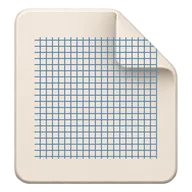
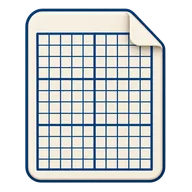
Refresh classroom artwork and add audit handoff

diff --git a/src/renderer/src/ui/icons.tsx b/src/renderer/src/ui/icons.tsx
@@ -4,7 +4,7 @@ import { useState } from 'preact/hooks'
 export * from 'lucide-preact'
 
 const files = import.meta.glob('../assets/art/*.webp', { eager: true, query: '?url', import: 'default' }) as Record<string, string>
-export const artNames = ["assistant","audio","axes","background","calculator","canvas-board","capture","chalk","clock","compass","copy","dice","empty-lessons","empty-shelf","equation","eraser","exit","export","felt-marker","file-pdf","frame","geometry-box","graph","hand","hide-toolbar","hide","highlighter","keyboard","laptop","laser","lasso","link","lock","magnifier","menu","mind-map","minimise","more","my-lessons","my-shelf","name-picker","new-lesson","new-page","notebook-board","number-line","open-folder","page-back","page-next","paintbrush","paper-fourline","paper-graph","paper-hindi","paper-ruled","paper-squared","pdf-worksheet","pen","pencil","periodic-table","picture","pin","poll","protractor","record","recovery","redo","rename","reveal","ruler","save-copy","save","science-labs","scoreboard","screen-cover","search","select","set-square","settings","shapes","share-phones","show","slides","smart-board","split-board","spotlight","stamp","sticky","stopwatch","subject-biology","subject-chemistry","subject-english","subject-hindi","subject-maths","subject-physics","subjects","table","tag","text","timeline","timer","trash","undo","unlock","use-apps-below","video","welcome-board","welcome-laptop","write-over-screen"] as const
+export const artNames = ["assistant","audio","axes","background","calculator","canvas-board","capture","chalk","clock","compass","copy","dice","empty-lessons","empty-shelf","equation","eraser","exit","export","felt-marker","file-pdf","frame","geometry-box","graph","hand","hide-toolbar","hide","highlighter","keyboard","laptop","laser","lasso","link","lock","magnifier","menu","mind-map","minimise","more","my-lessons","my-shelf","name-picker","new-lesson","new-page","notebook-board","number-line","open-folder","page-back","page-next","paintbrush","paper-fourline","paper-graph","paper-hindi","paper-ruled","paper-squared","pdf-worksheet","pen","pencil","periodic-table","picture","pin","poll","protractor","record","recovery","redo","rename","reveal","ruler","save-copy","save","science-labs","scoreboard","screen-cover","search","select","set-square","settings","shapes","share-phones","show","slides","smart-board","split-board","spotlight","stamp","sticky","stopwatch","subject-biology","subject-chemistry","subject-english","subject-hindi","subject-maths","subject-physics","subjects","table","tag","text","timeline","timer","trash","undo","unlock","use-apps-below","video","welcome-board","welcome-laptop","write-over-screen","templates","apparatus"] as const
 export const artUrl = (name: string): string | undefined => files['../assets/art/' + name + '.webp']
 
 // Decoded ahead of time so pictures do not pop in, without ever making the app wait for them to start.
@@ -134,3 +134,5 @@ export const ArtTimeline = art('timeline')
 export const ArtVideo = art('video')
 export const ArtWelcomeBoard = art('welcome-board')
 export const ArtWelcomeLaptop = art('welcome-laptop')
+export const ArtTemplates = art('templates')
+export const ArtApparatus = art('apparatus')

diff --git a/src/renderer/src/assets/art/SOURCES.md b/src/renderer/src/assets/art/SOURCES.md
@@ -2,6 +2,8 @@
 
 Owner supplied ten ChatGPT-generated transparent sheets on 1 November 2026 and explicitly authorised cropping, corrections and use in this GPL-3.0 app. No Note 3 assets were used. Original sheets and 1024px padded masters are outside the repository. Original prompts for supplied sheets are unknown, so subject briefs below are not claimed as their actual prompts. T and Σ were checked visually. New-feature art is intentionally reserved for the lead.
 
+Second round (2 November 2026): eight replacement pictures and the new Templates and Apparatus pictures were generated individually with the built-in OpenAI image tool. Original PNG masters and per-picture prompt metadata are retained in ../art-masters. Export processing removes detached alpha speckles while retaining the main object and its transparency. The two new UI exports are reserved for the lead.
+
 ### select.webp
 - Tool: ChatGPT image generation, supplied by owner
 - Date: 2026-11-01
@@ -255,11 +257,11 @@ Owner supplied ten ChatGPT-generated transparent sheets on 1 November 2026 and e
 - Edited: Cropped from supplied sheet; low-alpha background speckles removed; transparent padding added. Exact original generation prompt was not supplied.
 
 ### table.webp
-- Tool: ChatGPT image generation, supplied by owner
-- Date: 2026-11-01
-- Source: sheet-4.png; crop 565, 575, 255, 410; SHA-256 35b9279896f769676ef6090ccb43ca3afd69c6469886bc86f8c906e56d8bf281
-- Prompt: Original generation prompt not supplied by owner. Subject brief: table. Shared direction: familiar front-facing classroom objects, bold silhouette, minimal detail, warm matte colours, transparent background.
-- Edited: Cropped from supplied sheet; low-alpha background speckles removed; transparent padding added. Exact original generation prompt was not supplied.
+- Tool: OpenAI built-in image_gen
+- Date: 2026-11-02
+- Source: table-replacement.png; SHA-256 0814e4d90b5da77eb9ee8a8fd2eb90467719bd2a11cfab9c0aa04407d7a57e18
+- Prompt: Use case: stylized-concept. ONE replacement small classroom TABLE toolbar icon. First reference is the old table icon to replace; second is the new worksheet illustrating the shared warm ivory paper, restrained material depth and clear thick slate-blue marks. Make one upright front-facing warm cream table card with softly rounded corners and a small folded upper-right corner. A prominent muted deep-blue header band over EXACTLY THREE columns and FOUR empty rows below it. Straight, confident, thick slate-blue table rules, clean right-angle intersections, substantial dark outline. The blank cells must be generous and the header visually solid, so this reads immediately at 36–60 px. No text, numbers, PDF badge, worksheet answer boxes, extra objects or tiny detail. Modern, natural and restrained matte classroom-object illustration, soft upper-left form shading, no glossy toy plastic, no aged paper. Single centred object with transparent margin, true transparent alpha background, no shadow or backdrop.
+- Edited: Generated individually; original PNG master retained. Removed 175 detached alpha pixels outside the connected icon. Alpha-trimmed and resized through make-art.cjs with transparent padding. Replaces the supplied picture after visual review.
 
 ### equation.webp
 - Tool: ChatGPT image generation, supplied by owner
@@ -283,11 +285,11 @@ Owner supplied ten ChatGPT-generated transparent sheets on 1 November 2026 and e
 - Edited: Cropped from supplied sheet; low-alpha background speckles removed; transparent padding added. Exact original generation prompt was not supplied.
 
 ### axes.webp
-- Tool: ChatGPT image generation, supplied by owner
-- Date: 2026-11-01
-- Source: sheet-5.png; crop 325, 185, 220, 360; SHA-256 ed8db89249cc47c460381e0b73c34fcc59b1794ae3a9c8c5def7ea2e4ef6f2f9
-- Prompt: Original generation prompt not supplied by owner. Subject brief: axes. Shared direction: familiar front-facing classroom objects, bold silhouette, minimal detail, warm matte colours, transparent background.
-- Edited: Cropped from supplied sheet; low-alpha background speckles removed; transparent padding added. Exact original generation prompt was not supplied.
+- Tool: OpenAI built-in image_gen (generation and material-colour revision)
+- Date: 2026-11-02
+- Source: axes-replacement.png; SHA-256 3714f33bad0d6cb8b37ab81f121e053bb1529f219f4de560ba4c1e8df2f7ecc8
+- Prompt: Use case: stylized-concept. Create ONE replacement classroom toolbar icon for coordinate axes, in the warm, restrained, matte classroom-object style of the second reference (the green glass flask). First reference is the old axes icon being replaced: keep the familiar upright horizontal/vertical coordinate cross with four arrow tips, but make the strokes substantially bolder and clearer at 36–60 px. Dark graphite metal/ink, subtly rounded bevelled edges, a few short generous tick marks; tiny muted teal accents only if useful. Symmetric front-facing 2D coordinate cross, flat to viewer, no perspective, no third axis. The whole symbol should form a confident substantial silhouette, with soft upper-left material shading, restrained depth and no glossy plastic. No sheet or frame behind it. No text, letters, numbers, curve, extra props, glow or cast shadow. Single centred object with generous empty transparent margin. True transparent alpha background; no white rectangle, no checkerboard drawn into the image. Material-colour revision prompt: Edit this axes toolbar icon ONLY to improve its material colour and contrast. Keep the exact four-arrow coordinate-cross silhouette, upright orientation, overall thickness, four small teal tick accents and transparent framing. Replace the very dark graphite body with MATTE MID-TONE PEWTER STEEL, approximately #87979b, with a slightly darker clean outer contour and soft light silver upper-left highlights. The filled shafts and arrowheads must be clearly visible on a dark charcoal #272d33 panel as well as warm white, at 38 px. Keep restrained natural material depth, no glossy plastic, no glow, no halo, no cast shadow. Do not add a page, outline frame, text, numbers, letters, axes or extra props. True transparent alpha background; preserve transparency. Make a single substantial simple small icon, not a large busy illustration.
+- Edited: Generated individually; original PNG master retained. Removed 3646 detached alpha pixels outside the connected icon. Alpha-trimmed and resized through make-art.cjs with transparent padding. Replaces the supplied picture after visual review.
 
 ### periodic-table.webp
 - Tool: ChatGPT image generation, supplied by owner
@@ -696,46 +698,46 @@ Owner supplied ten ChatGPT-generated transparent sheets on 1 November 2026 and e
 - Edited: Cropped from supplied sheet; low-alpha background speckles removed; transparent padding added. Exact original generation prompt was not supplied.
 
 ### paper-squared.webp
-- Tool: ChatGPT image generation, supplied by owner
-- Date: 2026-11-01
-- Source: sheet-10.png; crop 1000, 400, 310, 320; SHA-256 8c4b8a5bcba05028041918d60a54351ba7dc5814df3765cfa7323f59e4f92bf7
-- Prompt: Original generation prompt not supplied by owner. Subject brief: paper-squared. Shared direction: familiar front-facing classroom objects, bold silhouette, minimal detail, warm matte colours, transparent background.
-- Edited: Cropped from supplied sheet; low-alpha background speckles removed; transparent padding added. Exact original generation prompt was not supplied. Exact preview guides composited in code.
+- Tool: OpenAI built-in image_gen
+- Date: 2026-11-02
+- Source: paper-squared-replacement.png; SHA-256 191b88fc9921bbc3e16865edf2bae0bd2cb010c8be398fe46e2170d3311e33f9
+- Prompt: Use case: stylized-concept. ONE replacement small toolbar icon for SQUARED PAPER. First reference is the old pale squared sheet; second is the approved new table card for the shared warm cream paper, substantial edges and soft restrained material shading. Create a single upright front-facing ivory sheet with rounded corners and a small folded top-right corner. Its main face shows a COARSE regular square grid, approximately five columns by six rows, with confident dark slate-blue strokes and right-angle intersections. Squares must look square, not a table: every line has equal weight, no header band, no filled cells. Fill most of the usable sheet with the grid while leaving a modest clean paper margin. Strokes must remain strong and clear at 36–60 px; no faint thin lines or dense fine mesh. Minimal natural matte classroom illustration, subtle upper-left form shading, no old parchment, no gloss. No text, numbers, letters, badges, pencil or extra objects. Single centred object, generous transparent margin, genuinely transparent alpha background, no shadow or backdrop.
+- Edited: Generated individually; original PNG master retained. Removed 38 detached alpha pixels outside the connected icon. Alpha-trimmed and resized through make-art.cjs with transparent padding. Replaces the supplied picture after visual review.
 
 ### paper-graph.webp
-- Tool: ChatGPT image generation, supplied by owner
-- Date: 2026-11-01
-- Source: sheet-10.png; crop 1000, 400, 310, 320; SHA-256 8c4b8a5bcba05028041918d60a54351ba7dc5814df3765cfa7323f59e4f92bf7
-- Prompt: Original generation prompt not supplied by owner. Subject brief: paper-graph. Shared direction: familiar front-facing classroom objects, bold silhouette, minimal detail, warm matte colours, transparent background.
-- Edited: Cropped from supplied sheet; low-alpha background speckles removed; transparent padding added. Exact original generation prompt was not supplied. Exact preview guides composited in code.
+- Tool: OpenAI built-in image_gen
+- Date: 2026-11-02
+- Source: paper-graph-replacement.png; SHA-256 067e29bd2ca994fad7312e388224fa8d77f2424692d79ded8066b7f8056cb198
+- Prompt: Use case: stylized-concept. ONE replacement GRAPH PAPER classroom toolbar icon. First reference is the old dense pale graph sheet; second is the new coarse squared-paper icon for the exact shared warm ivory paper, dark-blue edge and restrained bevelled material style. Same upright front-facing cream sheet, rounded corners and small folded upper-right corner. Show a regular finer square graph grid: about TEN columns by TWELVE rows, with every fifth division clearly heavier. Use solid slate-blue grid marks with strong contrast, visible at 36–60 px; minor rules should still be deliberate, not faint hairlines. Cells square, lines straight, equal spacing. No header, no filled cells, no plotted curve, axes, words, letters or numbers. Fill the usable sheet with the grid and a modest paper margin. Matte natural classroom-object illustration, soft upper-left form shading, subtle depth, no gloss or aged paper. Single centred object with transparent margin. True transparent alpha background, no shadow or backdrop.
+- Edited: Generated individually; original PNG master retained. Removed 223 detached alpha pixels outside the connected icon. Alpha-trimmed and resized through make-art.cjs with transparent padding. Replaces the supplied picture after visual review.
 
 ### paper-ruled.webp
-- Tool: ChatGPT image generation, supplied by owner
-- Date: 2026-11-01
-- Source: sheet-10.png; crop 1000, 400, 310, 320; SHA-256 8c4b8a5bcba05028041918d60a54351ba7dc5814df3765cfa7323f59e4f92bf7
-- Prompt: Original generation prompt not supplied by owner. Subject brief: paper-ruled. Shared direction: familiar front-facing classroom objects, bold silhouette, minimal detail, warm matte colours, transparent background.
-- Edited: Cropped from supplied sheet; low-alpha background speckles removed; transparent padding added. Exact original generation prompt was not supplied. Exact preview guides composited in code.
+- Tool: OpenAI built-in image_gen
+- Date: 2026-11-02
+- Source: paper-ruled-replacement.png; SHA-256 9a71b94e7a2b3172c67834676c5ac45ef2ffc04dc466036207606e20760e581a
+- Prompt: Use case: stylized-concept. ONE replacement RULED PAPER classroom toolbar icon. First reference is the old pale ruled-paper sheet; second is the new squared-paper icon for the shared warm ivory paper, dark-blue edge and restrained material style. One upright front-facing cream sheet, softly rounded corners, small folded upper-right corner. Show SIX evenly spaced, straight, bold slate-blue horizontal writing rules, generous vertical spacing and clean side margins. No vertical lines and no grid. Strong dark outer contour and clear rules that remain visible at 36–60 px. Keep the paper natural and matte with subtle upper-left form shading, no aged texture and no glossy plastic. No text, letters, numbers, symbols, badges, pen or extra objects. Single centred object with a generous transparent margin, true transparent alpha background, no shadow, backdrop or checkerboard.
+- Edited: Generated individually; original PNG master retained. Removed 1235 detached alpha pixels outside the connected icon. Alpha-trimmed and resized through make-art.cjs with transparent padding. Replaces the supplied picture after visual review.
 
 ### paper-fourline.webp
-- Tool: ChatGPT image generation, supplied by owner
-- Date: 2026-11-01
-- Source: sheet-10.png; crop 1000, 400, 310, 320; SHA-256 8c4b8a5bcba05028041918d60a54351ba7dc5814df3765cfa7323f59e4f92bf7
-- Prompt: Original generation prompt not supplied by owner. Subject brief: paper-fourline. Shared direction: familiar front-facing classroom objects, bold silhouette, minimal detail, warm matte colours, transparent background.
-- Edited: Cropped from supplied sheet; low-alpha background speckles removed; transparent padding added. Exact original generation prompt was not supplied. Exact preview guides composited in code.
+- Tool: OpenAI built-in image_gen
+- Date: 2026-11-02
+- Source: paper-fourline-replacement.png; SHA-256 4a0bcb9c8ef5d7a560b9b34c7be468074ae19c6aeff5a3b316fbfbcaf49d2168
+- Prompt: Use case: stylized-concept. ONE replacement FOUR-LINE HANDWRITING PAPER classroom toolbar icon. First reference is the old four-line sheet; second is the approved new ruled-paper sheet for the exact shared warm ivory card, dark-blue contour and restrained bevelled paper style. One upright front-facing cream sheet, softly rounded corners, small folded upper-right corner. Its face shows exactly TWO widely separated groups of FOUR horizontal writing rules. Within EACH group, all four rules are equally spaced and the colour order from top to bottom is BLUE, BLUE, MUTED RED, BLUE. All rules straight, bold and strong enough to read at 36–60 px; groups distinctly separated by blank space. No vertical lines, grid, written letters, words, numbers, badges, pencil or extra objects. Natural matte classroom illustration with soft upper-left form shading, subtle depth, no aged paper or glossy plastic. Single centred object with transparent margin. True transparent alpha background, no shadow or backdrop.
+- Edited: Generated individually; original PNG master retained. Removed 559 detached alpha pixels outside the connected icon. Alpha-trimmed and resized through make-art.cjs with transparent padding. Replaces the supplied picture after visual review.
 
 ### paper-hindi.webp
-- Tool: ChatGPT image generation, supplied by owner
-- Date: 2026-11-01
-- Source: sheet-10.png; crop 1000, 400, 310, 320; SHA-256 8c4b8a5bcba05028041918d60a54351ba7dc5814df3765cfa7323f59e4f92bf7
-- Prompt: Original generation prompt not supplied by owner. Subject brief: paper-hindi. Shared direction: familiar front-facing classroom objects, bold silhouette, minimal detail, warm matte colours, transparent background.
-- Edited: Cropped from supplied sheet; low-alpha background speckles removed; transparent padding added. Exact original generation prompt was not supplied. Exact preview guides composited in code.
+- Tool: OpenAI built-in image_gen
+- Date: 2026-11-02
+- Source: paper-hindi-replacement.png; SHA-256 f5f3280d38330beec677270246c18301d0b70f6a8ede5664669a0a893faffe19
+- Prompt: Use case: stylized-concept. ONE replacement HINDI HANDWRITING PAPER classroom toolbar icon. First reference is the old pale Hindi guide sheet; second is the new four-line sheet for the exact shared warm ivory paper, dark-blue contour and restrained bevelled paper style. One upright front-facing cream sheet with softly rounded corners and a small folded upper-right corner. Show exactly THREE clearly separated pairs of horizontal guides. EACH pair has one straight bold muted-red SOLID headline above one slate-blue DASHED writing guide, with six or seven generous broad dashes. Preserve wide blank writing space between the solid and dashed guide. All marks strong and legible at 36–60 px, no faint hairlines. No vertical lines, grid, actual Hindi glyphs, written text, numbers, badges or extra objects. Natural matte classroom illustration, soft upper-left form shading, subtle depth, no aged paper or glossy plastic. Single centred object with transparent margin, true transparent alpha background, no shadow or backdrop.
+- Edited: Generated individually; original PNG master retained. Removed 5 detached alpha pixels outside the connected icon. Alpha-trimmed and resized through make-art.cjs with transparent padding. Replaces the supplied picture after visual review.
 
 ### pdf-worksheet.webp
-- Tool: ChatGPT image generation, supplied by owner
-- Date: 2026-11-01
-- Source: sheet-10.png; crop 1000, 400, 310, 320; SHA-256 8c4b8a5bcba05028041918d60a54351ba7dc5814df3765cfa7323f59e4f92bf7
-- Prompt: Original generation prompt not supplied by owner. Subject brief: pdf-worksheet. Shared direction: familiar front-facing classroom objects, bold silhouette, minimal detail, warm matte colours, transparent background.
-- Edited: Cropped from supplied sheet; low-alpha background speckles removed; transparent padding added. Exact original generation prompt was not supplied. Exact preview guides composited in code.
+- Tool: OpenAI built-in image_gen
+- Date: 2026-11-02
+- Source: pdf-worksheet-replacement.png; SHA-256 2357d2b71be46228bdf72f0a2ed940fd04ea261c50801833ff4258922fef7eef
+- Prompt: Use case: stylized-concept. ONE replacement PDF worksheet toolbar icon. First reference is the existing pale page icon; second reference is the green flask showing the shared warm matte classroom-object illustration style. A single substantial warm ivory worksheet, upright and directly front-facing, softly rounded corners, small folded top-right corner, restrained upper-left light and bevelled paper edges. Strong slate-blue writing lines and three small blank answer boxes, a compact muted terracotta PDF tab with exactly the uppercase text 'PDF' tucked at the bottom corner. Make the lines and outline clearly visible at 36–60 px: bold deliberate marks, no fine pale ruling, no tiny fake text. Keep generous blank paper space and a clear simple silhouette. Natural, modern, calm, polished material illustration with minimal detail, no photorealism, no aged parchment, no glossy plastic. Single centred object, large within the canvas with transparent margin. True transparent alpha background; no shadow, backdrop, checkerboard, extra objects or watermark.
+- Edited: Generated individually; original PNG master retained. Removed 1052 detached alpha pixels outside the connected icon. Alpha-trimmed and resized through make-art.cjs with transparent padding. Replaces the supplied picture after visual review.
 
 ### redo.webp
 - Tool: ChatGPT image generation, supplied by owner
@@ -750,3 +752,17 @@ Owner supplied ten ChatGPT-generated transparent sheets on 1 November 2026 and e
 - Source: sheet-2.png; crop 580, 160, 278, 355; SHA-256 f8e38aa4ab13035e12a3f9753aece464737d0ffb4a9f928e48b4d40a85c73955
 - Prompt: Original generation prompt not supplied by owner. Subject brief: page-next. Shared direction: familiar front-facing classroom objects, bold silhouette, minimal detail, warm matte colours, transparent background.
 - Edited: Cropped from supplied sheet; low-alpha background speckles removed; transparent padding added. Exact original generation prompt was not supplied. Mirrored horizontally.
+
+### templates.webp
+- Tool: OpenAI built-in image_gen
+- Date: 2026-11-02
+- Source: templates.png; SHA-256 a16719e49055a326958c2552a0b474419affc9ed79817109096be8b51e7afa21
+- Prompt: Use case: stylized-concept. Create ONE small classroom toolbar icon for TEMPLATES: exactly THREE blank layout cards fanned out, overlapping into one compact clear silhouette. Front card upright, rear cards turned gently left and right. Warm ivory thick paper, softly rounded corners, a restrained dark slate/teal edge, minimal empty layout framing on the FRONT card only (one small empty header rectangle and two large blank panels). Rear cards blank. No sample content, writing, letters, numbers, symbols or images. Match a polished natural classroom-object illustration set: warm matte cream paper, muted teal accents, soft upper-left form shading, subtle material depth, bold familiar silhouette readable at 36–60 px. Modern and restrained, not a cartoon toy, no glossy plastic, aged parchment, excessive detail, glow or drop shadow. All three cards clearly distinct but substantially overlapping, centred with generous transparent margin. True transparent alpha background, no backdrop or checkerboard.
+- Edited: Generated individually; original PNG master retained. Removed 5338 detached alpha pixels outside the connected icon. Alpha-trimmed and resized through make-art.cjs with transparent padding. New picture reserved for the lead to wire into the UI.
+
+### apparatus.webp
+- Tool: OpenAI built-in image_gen
+- Date: 2026-11-02
+- Source: apparatus.png; SHA-256 c213e2973a04977a56ee4a44850fa776b0d4445a9cd710e2fc7a97482c827fa4
+- Prompt: Use case: stylized-concept. Create ONE compact small classroom toolbar icon for APPARATUS: a modern simple wooden school laboratory cupboard with glassware visibly inside. Front-facing, upright, softly rounded rectangular silhouette, warm honey-brown matte wood frame, two glass-front doors with small understated handles, two simple shelves, muted dark teal back panel for contrast. Just FOUR bold familiar glassware silhouettes inside: a beaker, a conical flask, a round-bottom flask and a small rack of test tubes. Subtle clear pale-blue glass edges and a little muted teal or amber liquid; no bubbles or tiny graduations. Space the objects clearly so they remain recognisable at 36–60 px. Thick outer cupboard frame and clean simple shelves, restrained upper-left form shading, slight natural material depth. Match a warm matte classroom-object illustration set; modern, organic and calm, no ornate mouldings, photorealistic grain, shiny toy plastic, decorative clutter or oversized details. No text, labels, letters, numbers or logos. Single centred object with generous transparent margin. Genuinely transparent alpha background, no cast shadow, backdrop, ground or checkerboard.
+- Edited: Generated individually; original PNG master retained. Removed 12899 detached alpha pixels outside the connected icon. Alpha-trimmed and resized through make-art.cjs with transparent padding. New picture reserved for the lead to wire into the UI.

diff --git a/docs/audit/HANDOFF.md b/docs/audit/HANDOFF.md
@@ -1,0 +1,51 @@
+# Tools audit handoff — 2 November 2026
+
+Branch: `feature/tools-audit`, based on `origin/main` at `1f23808`, version `1.7.0-beta.1`. Worktree: `D:\Projects 2\whiteboard\app-tools-audit`. The lead's `app` folder was left alone.
+
+## The three parts
+
+1. **Audit, `83f0bf7` (pushed):** [tools-audit.md](tools-audit.md). Twelve layout/size/surface configurations, 696 part visits, 2,064 setting actions, 288 on-part controls and 696 separate file-persistence checks. Screenshots and logs are outside the repo in `D:\Projects 2\whiteboard\audit-shots`.
+2. **Science drawings, `250f461` (pushed):** [science-check.md](science-check.md). All 28 physics/chemistry parts reviewed and refined in code. Biology was excluded at the owner's request on 2 November and is unchanged. All 58 part data/control contracts are unchanged. The renderer check covered 430 states with no escaped or overlapping text.
+3. **Picture assets:** eight replacements (`axes`, `pdf-worksheet`, `table`, `paper-squared`, `paper-graph`, `paper-ruled`, `paper-fourline`, `paper-hindi`) and two additions (`templates`, `apparatus`). All were generated with the built-in image tool and processed through `build/make-art.cjs`. Raw masters and per-picture prompt metadata are in `D:\Projects 2\whiteboard\art-masters`; [SOURCES.md](../../src/renderer/src/assets/art/SOURCES.md) records the prompts and master hashes. The axes received a lighter material revision after checking dark panels.
+
+**New exports at the end of `ui/icons.tsx`: `ArtTemplates` and `ArtApparatus`.** The lead still needs to use them on the buttons. The artwork inventory includes both. Existing button sizes and styles are unchanged. All 109 image exports together are about 636 KiB, below the 3 MB budget.
+
+[Picture preview at 38, 60 and 96 px, on both surfaces](../../../audit-shots/art-round2-preview.png).
+
+## Ten worst findings within the retained physics/chemistry scope
+
+The numbers refer to the original report; its biology findings are retained as historical evidence, without biology fixes.
+
+| Report | Finding | Status on this branch |
+|---|---|---|
+| 1 | Concave lens displayed a positive focal length | Fixed |
+| 2 | Zero force displayed 0.1 N | Fixed |
+| 3 | Empty vessel displayed pH 7 | Fixed |
+| 5 | Spring scale disagreed with the numerical weight | Fixed |
+| 6 | Settings switch hidden behind the board toolbar at 1280 | Lead: protected UI files |
+| 11 | Pendulum escaped its box and crowded its caption | Fixed; small-angle approximation disclosed |
+| 12 | Empty burette retained a coloured liquid heel | Fixed |
+| 13 | Magnetic field diagram lacked direction and exceeded its bounds | Fixed as a schematic |
+| 14 | Balance assumes the same vessel mass and liquid density | Lead: `world.ts` |
+| 15 | Weak glassware/support construction and proportions | Physics/chemistry drawings refined |
+
+The resistor's fixed colour bands also need the lead's attention in `parts-electric.ts`; that file was intentionally untouched.
+
+## Required final checks
+
+| Command | Result |
+|---|---|
+| `npm run typecheck` | Pass, no errors |
+| `npm test` | 470 passed, 0 failed (35 files) |
+| `npm run e2e:apparatus` | 31 passed, 0 failed |
+| `npm run e2e:icons` | 18 passed, 0 failed |
+| `npm run e2e:theme` | 19 passed, 0 failed |
+| `npm run e2e:labels` | 8 passed, 0 failed |
+
+Logs: `D:\Projects 2\whiteboard\audit-shots\final-checks`. Tracked `e2e/shots` is restored before committing; test pictures are not committed.
+
+## What remains to verify
+
+Real panel input, palm rejection, display scaling, back-row readability and physical teaching acceptance were not tested. Native file dialogs were controlled/cancelled and external Office/import workflows were not certified by this audit. A science teacher should review the ideal lens and pendulum models, linear liquid levels in conical/round vessels, simplified pH/indicator/heating behaviour and the balance assumptions before quantitative lessons. See the specific limitations and sources in `science-check.md`.
+
+The branch is for the lead to review. No PR or merge is performed by this task.

diff --git a/docs/audit/science-check.md b/docs/audit/science-check.md
@@ -14,6 +14,7 @@ All **28 parts** defined in `parts-physics.ts` and `parts-chem.ts` were checked 
 - **C2:** [NCERT Class XI Chemistry Laboratory Manual, Titrimetric Analysis](https://ncert.nic.in/pdf/publication/sciencelaboratorymanuals/classXI/chemistry/kelm206.pdf): burette graduation/readings, meniscus and conical-flask use.
 - **C3:** [NCERT Class IX laboratory manual, Materials](https://ncert.nic.in/pdf/publication/sciencelaboratorymanuals/classIX/science/ielm102.pdf): solution, heating and measuring context.
 - **C4:** [IIT Kanpur SATHEE's NCERT Structure of the Atom text](https://sathee.iitk.ac.in/pa/sathee-ssc/student-corner/ncert-books/class-09/nb-science-09/sci-09-chapter-4-structure-of-the-atom/): shell notation and the NCERT spelling “Sulphur”. The live NCERT Class IX PDF routes now point to the newer Exploration book, so this source is identified as a reproduction of the older NCERT chapter rather than the current chapter number.
+- **C5:** [NCERT Class XI Chemistry, Structure of Atom, §§2.6.5–2.6.6](https://ncert.nic.in/textbook/pdf/kech102.pdf): filling order through krypton and the chromium/copper exceptions. Their configurations give shell totals 2,8,13,1 and 2,8,18,1 respectively; the existing code agrees.
 
 These references informed the facts. Proportions, curves, material highlights and label placement were drawn independently in Canvas2D code.
 
@@ -48,14 +49,14 @@ These references informed the facts. Proportions, curves, material highlights an
 | Stand and clamp / `retort-stand` | Heavy base, vertical rod, sliding boss and gripping jaws (C1). | Padded jaw tips, clearer metal/boss details and base edge. Clamp height and interaction point unchanged. |
 | pH paper / `ph-strip` | Dry strip versus wetted indicator region; reading from the existing solution model (C3). | Paper shading, bounded compact reading and stronger edge on chalk. The indicator colour function is untouched. |
 | Balance / `balance` | Mass is labelled in grams; drawing must not imply a new tare or calibration control. | Softer display, pan and case detail; no fake buttons. Fixed vessel mass/density assumptions in `world.ts` are reported to the lead, not changed. |
-| Atomic shells / `atom` | Neutral electron count, shell totals up to Z=36, K/L/M/N notation; Cr and Cu exception code inspected (C4). | Contained footer, named shells, “Sulphur”, restrained electrons. All 36 elements rendered. Bohr-style paths remain a schematic, not literal quantum electron trajectories. |
+| Atomic shells / `atom` | Neutral electron count, shell totals up to Z=36, K/L/M/N notation and NCERT Cr/Cu exceptions (C4, C5). | Contained footer, named shells, “Sulphur”, restrained electrons. All 36 elements rendered. Bohr-style paths remain a schematic, not literal quantum electron trajectories. |
 
 ## Verification and evidence
 
 - Both surfaces were rendered in the real Electron renderer across **430 setting/edge states**, including all 36 atomic numbers. The sign, zero-force and empty-sample checks passed. No painted text escaped its part bounds in those states, and no renderer error was logged.
 - [White drawing sheet](../../../audit-shots/science-after/white-contact.png) and [chalk drawing sheet](../../../audit-shots/science-after/chalk-contact.png); individual native-unit renders and `metrics.json` are beside them. Full original interactive audit evidence stays in the parent `audit-shots` folder.
 - The before/after compatibility comparison reports **all 58 part contracts unchanged**. This includes the biology and electrical parts, which were deliberately left alone.
-- Required command results and final artwork handoff are recorded after the last stage of the task.
+- All six required final commands passed. The counts and artwork exports are in [HANDOFF.md](HANDOFF.md).
 
 ## For the lead and a science teacher to check
 

diff --git a/docs/NEXT-CHAT-HANDOFF.md b/docs/NEXT-CHAT-HANDOFF.md
@@ -58,6 +58,8 @@ The gesture ring is a separate college project and is **not** part of the produc
 
 ## 3. State right now
 
+- **Second-agent tools audit (2 Nov, `feature/tools-audit`, separate worktree):** report and physics/chemistry drawing pass are pushed; biology is unchanged at the owner's request. Ten final picture assets and the `ArtTemplates` / `ArtApparatus` exports are prepared for the lead. See `docs/audit/HANDOFF.md` for checks, evidence and remaining issues. This branch is not merged or installed.
+
 - **`docs/CHECKLIST.md` is the owner's plain-language progress list and the plan.** Checklist 1 is finished and archived. Tick items (✅ / 🔄 / ⬜) whenever a milestone starts or finishes; keep it
   short and jargon-free. `FEATURES.md` stays the detailed feature list.
 - `main` = **1.7.0-beta.1**, installed on the owner's laptop. **All of Step 2 is built and merged** (PRs #11–#14): My shelf, attached arrows, number line and axes, tables, reveals, light/dark mode, print-friendly PDFs, export preview, calculator, periodic table, writing strips. Built before it (see `CHANGELOG.md`):
@@ -96,6 +98,8 @@ The gesture ring is a separate college project and is **not** part of the produc
   unverified on hardware (Step 3).
 
 ## 4. What to do next
+
+- **Lead review:** `feature/tools-audit`, with the short handoff in `docs/audit/HANDOFF.md`. Wire `ArtTemplates` and `ArtApparatus` into the buttons when reviewing the picture pass. The settings panel obstruction, balance assumptions and resistor colour bands are reported for the lead; the protected UI/solver files were not edited by the second agent.
 
 **Checklist 2, in order ("Start here" above).** The notes below are background.
 
